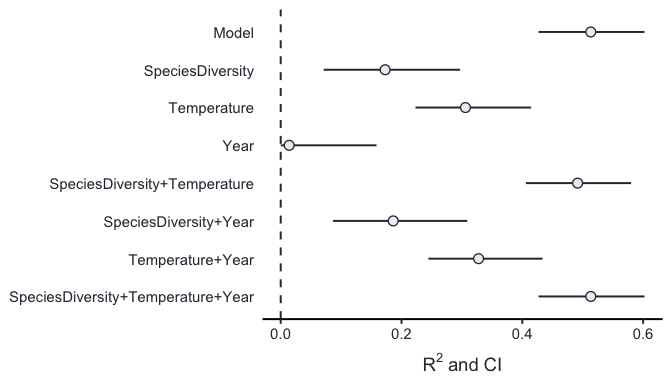
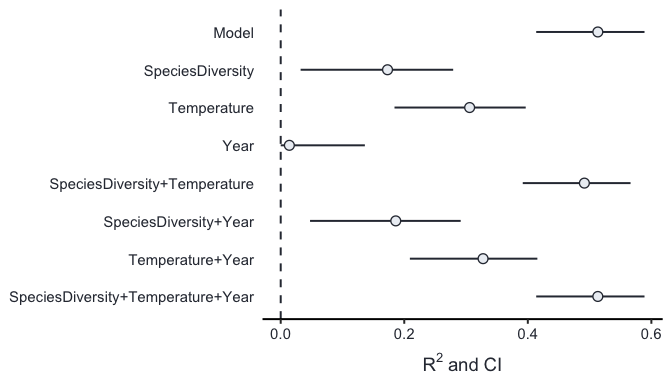
citation in readme updated

diff --git a/README.md b/README.md
@@ -35,9 +35,6 @@ The package takes a fitted lme4 model as input and gives you:
 All estimates can be combined with parametric bootstrapping to get
 confidence intervals.
 
-`partR2` is still in an early phase of development and might contain
-bugs.
-
 ## Installation
 
 You can install the stable version of `partR2` from CRAN with:
@@ -51,9 +48,27 @@ Or the development version from GitHub with:
 ``` r
 # install.packages("remotes")
 remotes::install_github("mastoffel/partR2", build_vignettes = TRUE, dependencies = TRUE) 
+```
+
+Access the vignette with:
+
+``` r
 # check vignette
 browseVignettes("partR2")
 ```
+
+`partR2` is still in an early phase of development and might contain
+bugs. If you find one, please report a minimal reproducible example in
+the [issues](https://github.com/mastoffel/partR2/issues).
+
+### Citation
+
+When using `partR2`, please cite our
+[paper](https://peerj.com/articles/11414/):
+
+Stoffel MA, Nakagawa S, Schielzeth H. 2021. partR2: partitioning R2 in
+generalized linear mixed models. *PeerJ* **9**:e11414
+<https://doi.org/10.7717/peerj.11414>
 
 ## Example
 
@@ -75,20 +90,20 @@ mod <- lmer(Biomass ~  Year + Temperature + SpeciesDiversity + (1|Population),
 #> 
 #> R2 (marginal) and 95% CI for the full model: 
 #>  R2     CI_lower CI_upper nboot ndf
-#>  0.5133 0.4268   0.6023   100   4  
+#>  0.5133 0.4136   0.5889   100   4  
 #> 
 #> ----------
 #> 
 #> Part (semi-partial) R2:
 #>  Predictor(s)                      R2     CI_lower CI_upper nboot ndf
-#>  Model                             0.5133 0.4268   0.6023   100   4  
-#>  SpeciesDiversity                  0.1729 0.0711   0.2969   100   3  
-#>  Temperature                       0.3058 0.2231   0.4145   100   3  
-#>  Year                              0.0140 0.0000   0.1587   100   3  
-#>  SpeciesDiversity+Temperature      0.4916 0.4059   0.5801   100   2  
-#>  SpeciesDiversity+Year             0.1862 0.0865   0.3089   100   2  
-#>  Temperature+Year                  0.3276 0.2445   0.4333   100   2  
-#>  SpeciesDiversity+Temperature+Year 0.5133 0.4268   0.6023   100   1
+#>  Model                             0.5133 0.4136   0.5889   100   4  
+#>  SpeciesDiversity                  0.1729 0.0322   0.2792   100   3  
+#>  Temperature                       0.3058 0.1842   0.3966   100   3  
+#>  Year                              0.0140 0.0000   0.1362   100   3  
+#>  SpeciesDiversity+Temperature      0.4916 0.3918   0.5663   100   2  
+#>  SpeciesDiversity+Year             0.1862 0.0475   0.2913   100   2  
+#>  Temperature+Year                  0.3276 0.2091   0.4155   100   2  
+#>  SpeciesDiversity+Temperature+Year 0.5133 0.4136   0.5889   100   1
 ```
 
 And to plot the results:
@@ -98,12 +113,3 @@ forestplot(R2, type = "R2", line_size = 0.7, text_size = 14, point_size = 3)
 ```
 
 ![](README-plot-1.png)<!-- -->
-
-### Citation
-
-When using `partR2`, please cite our
-[paper](https://peerj.com/articles/11414/):
-
-Stoffel MA, Nakagawa S, Schielzeth H. 2021. partR2: partitioning R2 in
-generalized linear mixed models. PeerJ 9:e11414
-<https://doi.org/10.7717/peerj.11414>
